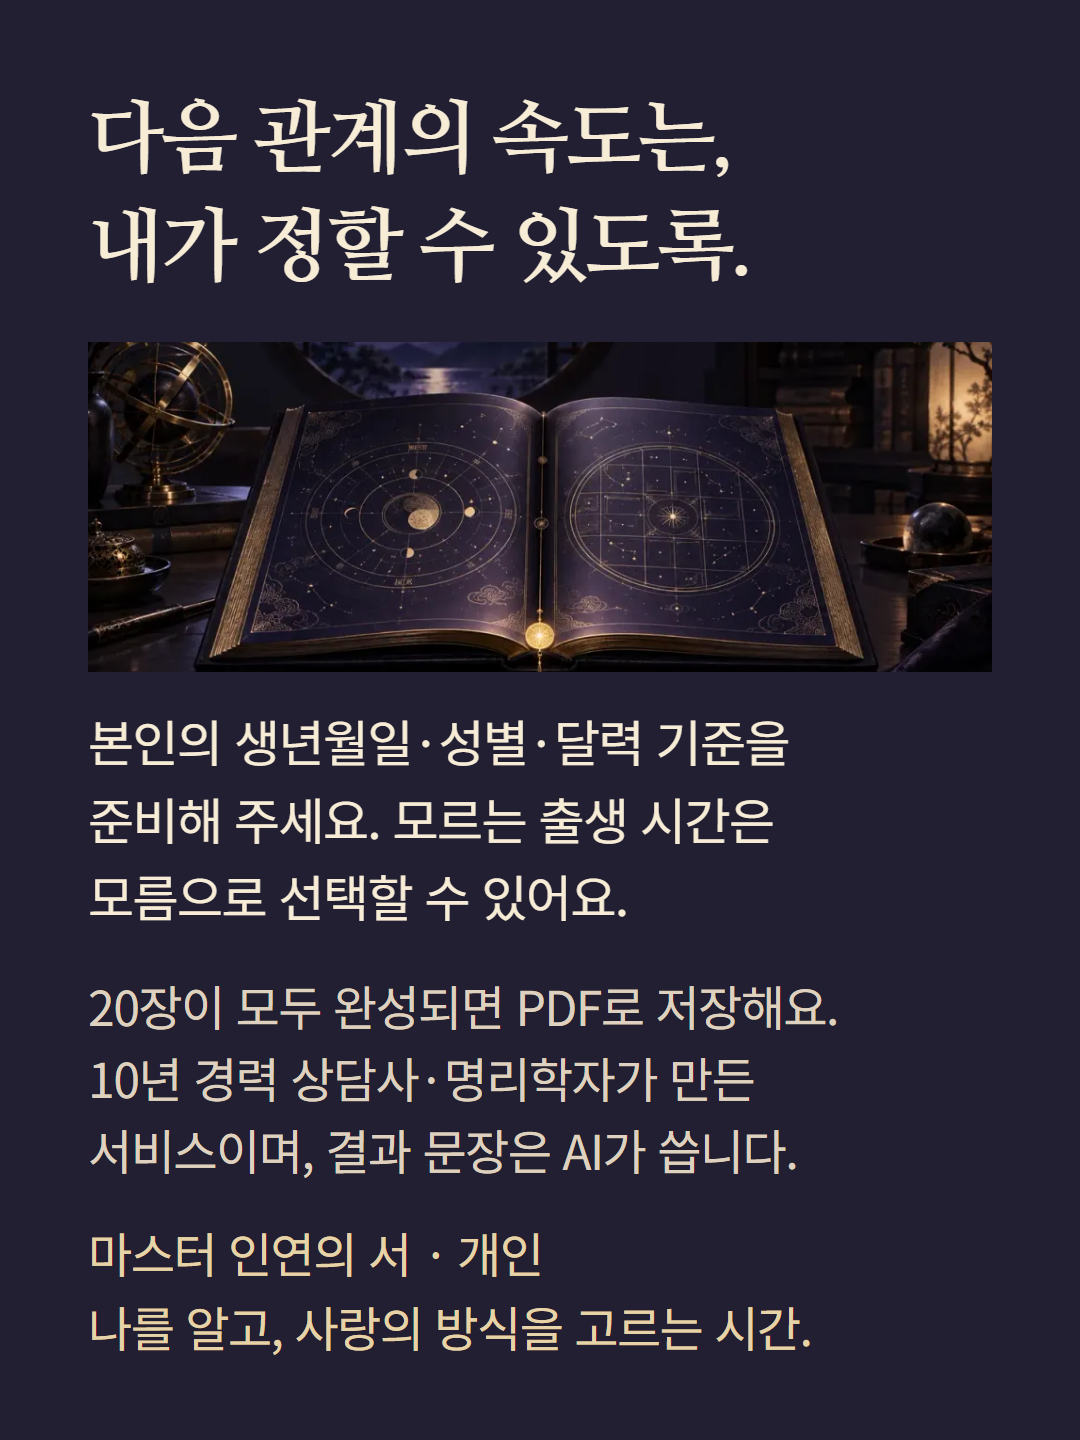
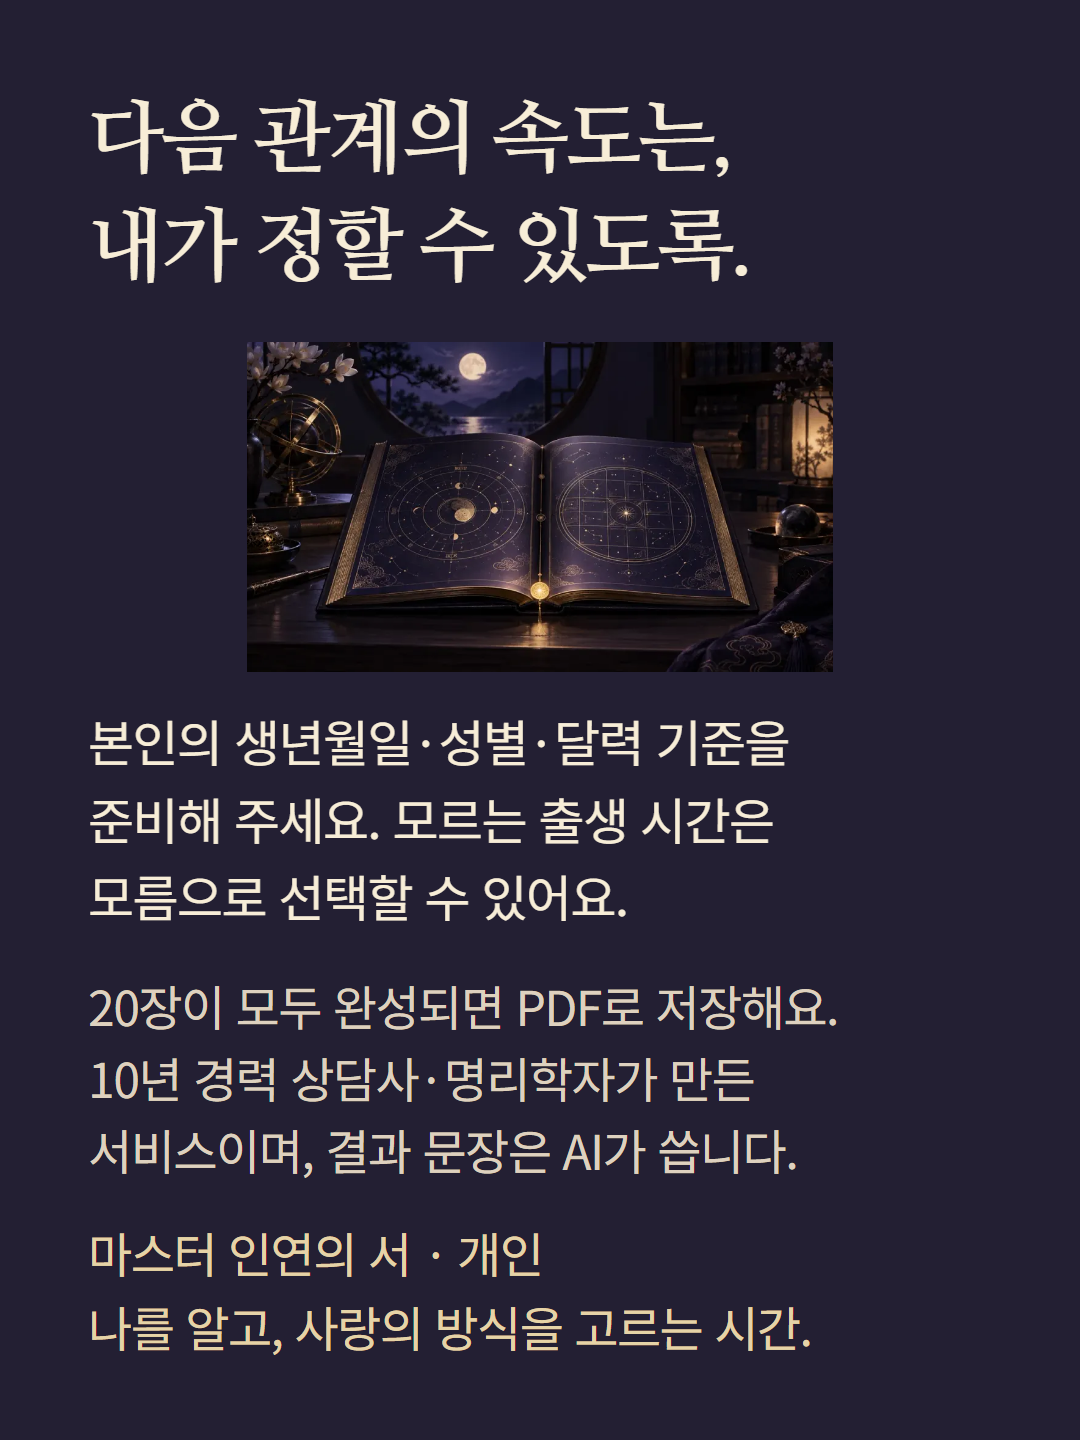
인연의 서 상세 마지막 장: 책 삽화를 원본 비율로 다시 렌더(개인판·궁합판)

Changed region(s): [[0.0611, 0.2188, 0.9167, 0.4688]]

diff --git a/content/product-details/master-love-codex-compat/layout.css b/content/product-details/master-love-codex-compat/layout.css
@@ -1,2 +1,2 @@
-*{box-sizing:border-box}body{margin:0;background:#f4eee8;color:#402d39;font-family:'Yeongnyangi Noto',sans-serif}.panel{width:1080px;height:1440px;position:relative;overflow:hidden;padding:84px 88px;background:#f4eee8}h1,h2,h3,p{margin:0;word-break:keep-all}h1,h2{font-family:'Yeongnyangi Myeongjo',serif;font-size:80px;line-height:1.35;letter-spacing:-2.9px;margin-bottom:42px}h3{font-size:50px;line-height:1.4;margin-bottom:24px}p{font-size:50px;line-height:1.55;letter-spacing:-1.6px}.note,.label{font-size:48px;line-height:1.5;color:#695667}.note{margin-top:32px}.label{margin-bottom:30px}.p1,.p10{background:#382836;color:#fcf0dd}.cover{width:904px;height:510px;display:block;object-fit:cover;margin:36px 0}.sign{font-size:48px;color:#e5ccb2;margin-top:30px}.voices{display:grid;grid-template-columns:1fr 1fr;gap:40px;border-block:1px solid #b5a094;padding:44px 0;margin:54px 0}.voices section+section{border-left:1px solid #b5a094;padding-left:34px}.voices p{font-family:'Yeongnyangi Myeongjo',serif;font-size:54px}.charts{display:grid;grid-template-columns:1fr 1fr;gap:40px;text-align:center;padding:36px 0;border-block:1px solid #b5a094}.charts section+section{border-left:1px solid #b5a094;padding-left:34px}.connection{margin:32px 0 40px;text-align:center;padding:26px 0;border-bottom:1px solid #b5a094}.connection p{font-size:48px}ol{padding-left:78px;margin:20px 0 34px}li{font-size:50px;line-height:1.48;letter-spacing:-1.8px;padding:18px 0;border-bottom:1px solid #cbbab3;word-break:keep-all}li span{font-size:48px;color:#695667}.p5,.p7{background:#eadee0}.agreement section{padding:12px 0;border-top:1px solid #b5a094}.agreement h3{margin-bottom:10px}.agreement p{line-height:1.45}.profile{padding:12px 0;margin:24px 0 26px;border-block:1px solid #b5a094}.profile p{font-size:50px;padding:14px 0}.ending{display:block;width:904px;height:330px;object-fit:cover;margin:30px 0}.p10 .note{color:#e0ccd6}
+*{box-sizing:border-box}body{margin:0;background:#f4eee8;color:#402d39;font-family:'Yeongnyangi Noto',sans-serif}.panel{width:1080px;height:1440px;position:relative;overflow:hidden;padding:84px 88px;background:#f4eee8}h1,h2,h3,p{margin:0;word-break:keep-all}h1,h2{font-family:'Yeongnyangi Myeongjo',serif;font-size:80px;line-height:1.35;letter-spacing:-2.9px;margin-bottom:42px}h3{font-size:50px;line-height:1.4;margin-bottom:24px}p{font-size:50px;line-height:1.55;letter-spacing:-1.6px}.note,.label{font-size:48px;line-height:1.5;color:#695667}.note{margin-top:32px}.label{margin-bottom:30px}.p1,.p10{background:#382836;color:#fcf0dd}.cover{width:904px;height:510px;display:block;object-fit:cover;margin:36px 0}.sign{font-size:48px;color:#e5ccb2;margin-top:30px}.voices{display:grid;grid-template-columns:1fr 1fr;gap:40px;border-block:1px solid #b5a094;padding:44px 0;margin:54px 0}.voices section+section{border-left:1px solid #b5a094;padding-left:34px}.voices p{font-family:'Yeongnyangi Myeongjo',serif;font-size:54px}.charts{display:grid;grid-template-columns:1fr 1fr;gap:40px;text-align:center;padding:36px 0;border-block:1px solid #b5a094}.charts section+section{border-left:1px solid #b5a094;padding-left:34px}.connection{margin:32px 0 40px;text-align:center;padding:26px 0;border-bottom:1px solid #b5a094}.connection p{font-size:48px}ol{padding-left:78px;margin:20px 0 34px}li{font-size:50px;line-height:1.48;letter-spacing:-1.8px;padding:18px 0;border-bottom:1px solid #cbbab3;word-break:keep-all}li span{font-size:48px;color:#695667}.p5,.p7{background:#eadee0}.agreement section{padding:12px 0;border-top:1px solid #b5a094}.agreement h3{margin-bottom:10px}.agreement p{line-height:1.45}.profile{padding:12px 0;margin:24px 0 26px;border-block:1px solid #b5a094}.profile p{font-size:50px;padding:14px 0}.ending{display:block;width:auto;max-width:904px;height:330px;margin:30px auto}.p10 .note{color:#e0ccd6}
 .excerpt{border-block:1px solid #b5a094;padding:28px 0}

diff --git a/content/product-details/master-love-codex/layout.css b/content/product-details/master-love-codex/layout.css
@@ -1,3 +1,3 @@
-*{box-sizing:border-box}body{margin:0;background:#f3eddf;color:#302b37;font-family:'Yeongnyangi Noto',sans-serif}.panel{width:1080px;height:1440px;position:relative;overflow:hidden;padding:84px 88px;background:#f3eddf}h1,h2,h3,p{margin:0;word-break:keep-all}h1,h2{font-family:'Yeongnyangi Myeongjo',serif;font-size:80px;line-height:1.35;letter-spacing:-2.8px;margin-bottom:42px}h3{font-size:50px;line-height:1.45;margin-bottom:20px}p{font-size:50px;line-height:1.55;letter-spacing:-1.5px}.note,.label{font-size:48px;line-height:1.5;color:#6b6071}.note{margin-top:34px}.label{margin-bottom:32px}.p1,.p10{background:#231f33;color:#f7edd7}.portrait{display:block;width:904px;height:510px;object-fit:cover;margin:34px 0}.signature{font-size:48px;color:#e6d3a7;margin-top:30px}.distance{border-block:1px solid #9c8e77;margin:46px 0;padding:24px 0;text-align:center}.distance span{display:block;font-size:48px;line-height:1.35;color:#80708b}.lens{border-top:1px solid #b9ac99;padding:26px 0}.lens:last-of-type{margin-bottom:24px}ol{padding-left:78px;margin:24px 0 36px}li{font-size:50px;line-height:1.48;letter-spacing:-1.5px;padding:20px 0;border-bottom:1px solid #c6baa9;word-break:keep-all}li span{font-size:48px;color:#6b6071}.p5,.p7{background:#eae3d6}.letter{border-block:1px solid #9c8e77;padding:28px 0}.letter blockquote{margin:34px 0;font-family:'Yeongnyangi Myeongjo',serif;font-size:54px;line-height:1.5;color:#655077}.dna{display:flex;flex-wrap:wrap;gap:28px 36px;margin:24px 0 36px;justify-content:center}.dna span{font-size:54px;padding:18px 30px;border:1px solid #b9ac99;border-radius:70px;min-width:240px;text-align:center}.book{display:block;width:904px;height:330px;object-fit:cover;margin:30px 0}.p10 .note{color:#ded1bf}
+*{box-sizing:border-box}body{margin:0;background:#f3eddf;color:#302b37;font-family:'Yeongnyangi Noto',sans-serif}.panel{width:1080px;height:1440px;position:relative;overflow:hidden;padding:84px 88px;background:#f3eddf}h1,h2,h3,p{margin:0;word-break:keep-all}h1,h2{font-family:'Yeongnyangi Myeongjo',serif;font-size:80px;line-height:1.35;letter-spacing:-2.8px;margin-bottom:42px}h3{font-size:50px;line-height:1.45;margin-bottom:20px}p{font-size:50px;line-height:1.55;letter-spacing:-1.5px}.note,.label{font-size:48px;line-height:1.5;color:#6b6071}.note{margin-top:34px}.label{margin-bottom:32px}.p1,.p10{background:#231f33;color:#f7edd7}.portrait{display:block;width:904px;height:510px;object-fit:cover;margin:34px 0}.signature{font-size:48px;color:#e6d3a7;margin-top:30px}.distance{border-block:1px solid #9c8e77;margin:46px 0;padding:24px 0;text-align:center}.distance span{display:block;font-size:48px;line-height:1.35;color:#80708b}.lens{border-top:1px solid #b9ac99;padding:26px 0}.lens:last-of-type{margin-bottom:24px}ol{padding-left:78px;margin:24px 0 36px}li{font-size:50px;line-height:1.48;letter-spacing:-1.5px;padding:20px 0;border-bottom:1px solid #c6baa9;word-break:keep-all}li span{font-size:48px;color:#6b6071}.p5,.p7{background:#eae3d6}.letter{border-block:1px solid #9c8e77;padding:28px 0}.letter blockquote{margin:34px 0;font-family:'Yeongnyangi Myeongjo',serif;font-size:54px;line-height:1.5;color:#655077}.dna{display:flex;flex-wrap:wrap;gap:28px 36px;margin:24px 0 36px;justify-content:center}.dna span{font-size:54px;padding:18px 30px;border:1px solid #b9ac99;border-radius:70px;min-width:240px;text-align:center}.book{display:block;width:auto;max-width:904px;height:330px;margin:30px auto}.p10 .note{color:#ded1bf}
 
 .path{margin:28px 0 38px 30px;border-left:1px solid #9c8e77}.path section{display:flex;align-items:center;gap:24px;padding:18px 0;margin-left:-30px}.path b{display:block;font-size:48px;min-width:60px;line-height:60px;text-align:center;background:#eae3d6;font-weight:400}.path p{font-size:50px;line-height:1.45}.path span{font-size:48px;color:#6b6071}
